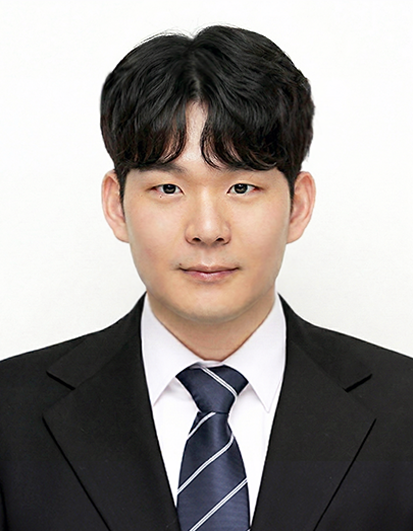
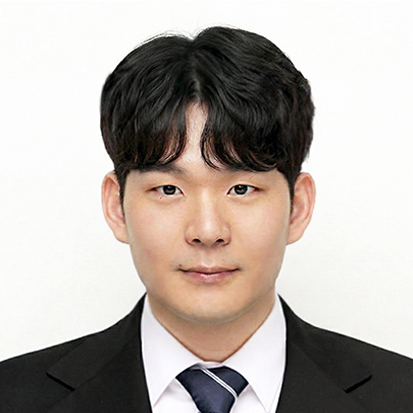
Update photos: Taeho Kim (new), Changmin Kim (edited)

diff --git a/src/app/components/members.js b/src/app/components/members.js
@@ -66,6 +66,16 @@ const MOBILE_HIDDEN = new Set(["Jiyeon Lee"]);
 // Members hidden everywhere (both mobile and desktop). Filtered out at build time.
 const HIDDEN_MEMBERS = new Set(["Ji min Rhee", "Eunseol Kim", "Yeju Jeong"]);
 
+// Per-member object-position override for the circular avatar crop, so heads/faces
+// aren't cut off. Tall portraits default to center; these shift the crop window up.
+const PHOTO_POSITION = {
+  "Changmin Kim": "center 18%",
+  "Taeho Kim": "center 18%",
+};
+function photoPosition(name) {
+  return PHOTO_POSITION[(name || "").trim()];
+}
+
 function resolvePhoto(name, image) {
   const key = (name || "").trim();
   return LOCAL_PHOTOS[key] || SHEET_PHOTOS[key] || String(image || "").trim() || "";
@@ -158,6 +168,7 @@ export default function Members() {
               src={imageSrc}
               alt={name || "member"}
               className={`absolute inset-0 w-full h-full object-cover filter grayscale brightness-[0.95] contrast-[1.05]${imageSrc.startsWith("/img/members/") ? " scale-[1.04]" : ""}`}
+              style={{ objectPosition: photoPosition(name) }}
               loading="lazy"
               referrerPolicy="no-referrer"
               onError={(e) => {
@@ -204,6 +215,7 @@ export default function Members() {
                 src={imageSrc}
                 alt={name || "member"}
                 className={`absolute inset-0 w-full h-full object-cover filter grayscale brightness-[0.95] contrast-[1.05]${imageSrc.startsWith("/img/members/") ? " scale-[1.04]" : ""}`}
+                style={{ objectPosition: photoPosition(name) }}
                 loading="lazy"
                 referrerPolicy="no-referrer"
                 onError={(e) => {
@@ -332,6 +344,7 @@ export default function Members() {
                                 src={imageSrc}
                                 alt={name || "member"}
                                 className={`w-full h-full object-cover filter grayscale brightness-[0.95] contrast-[1.05]${imageSrc.startsWith("/img/members/") ? " scale-[1.04]" : ""}`}
+                                style={{ objectPosition: photoPosition(name) }}
                                 loading="lazy"
                                 referrerPolicy="no-referrer"
                                 onError={(e) => {
